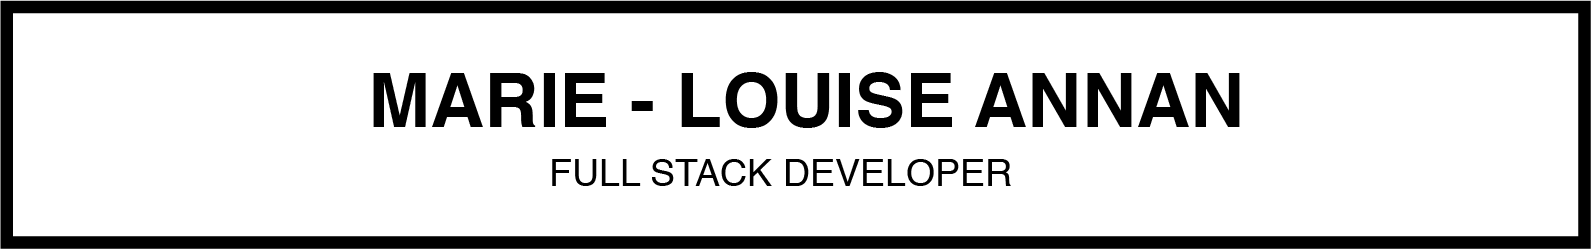
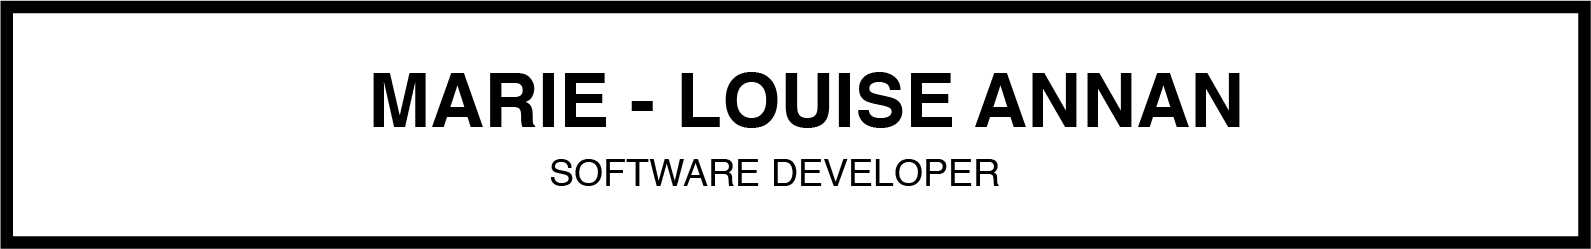
update

Changed region(s): [[0.3388, 0.6185, 0.6468, 0.759]]

diff --git a/README.md b/README.md
@@ -2,7 +2,7 @@
 
 ## Profile
 
-I’m an experienced full stack developer who loves to learn new things. I'm hard working and I complete tasks in a timely manner. I have good knowledge of Python and JavaScript ecosystems, experience using IDE’s, Git, GitHub, shell scripting and I’m currently looking for an exiting new opportunity.
+I’m an experienced software developer who loves to learn new things. I'm hard working and I complete tasks in a timely manner. I have good knowledge of Python and JavaScript ecosystems, experience using IDE’s, Git, GitHub, shell scripting and I’m currently looking for an exiting new opportunity.
 ## Experience
 
 **Lewisham Multilingual Advice Service** / Full Stack Software Developer
@@ -54,7 +54,7 @@ _March 2018 - October 2019_
 
 - [Discover](https://github.com/Marie-L/discover)
 - [CRUD API](https://github.com/Marie-L/python_crud)
-- [Project Pages](https://github.com/Marie-L/ProjectPages)
+- [Report Exporter](https://github.com/Marie-L/reportExporter)
 
 
 ## Academic Achievements
